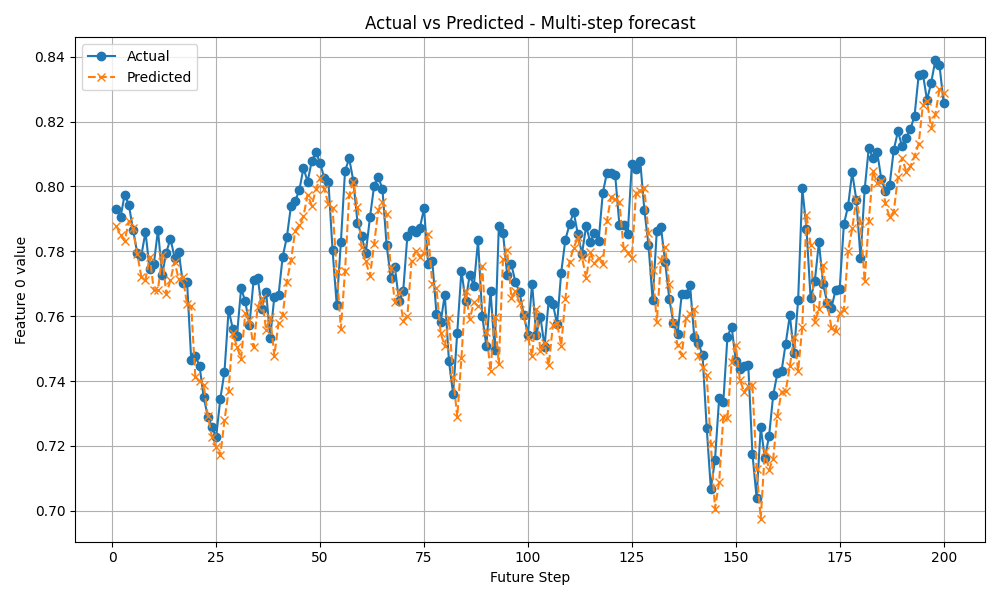
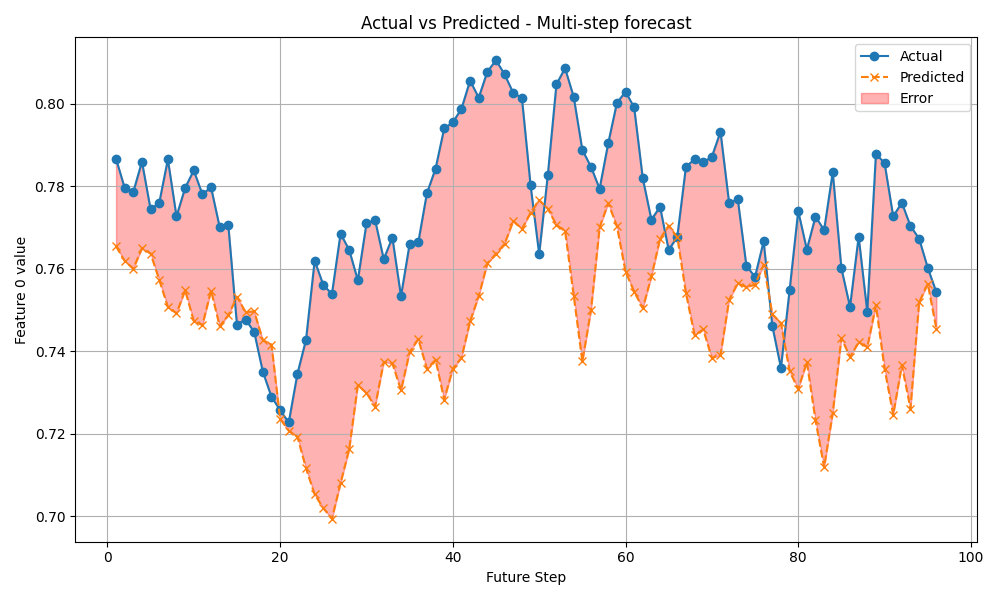
better plots & multi-step validation bug fixes

diff --git a/app/main.py b/app/main.py
@@ -145,6 +145,14 @@ def plot_predictions(model:(...), X_test:torch.Tensor, y_test:torch.Tensor, plot
     plt.figure(figsize=(10, 6))
     plt.plot(y_true, label='Actual', color='black', linewidth=2)
     plt.plot(y_pred, label='Predicted', color='red', linestyle='--')
+    steps = np.arange(0, len(y_true))
+    plt.fill_between(steps, y_true, y_pred,
+                     where=None,       # or a boolean array if you only want some segments
+                     interpolate=True, # helps when lines cross
+                     color='red',
+                     alpha=0.3,
+                     label="Error",
+                    )
     plt.title(title)
     plt.xlabel('Time Step')
     plt.ylabel('Value')
@@ -202,12 +210,14 @@ def multi_step_forecast(model:(...), init_seq:torch.Tensor, n_steps:int=1) -> to
 
 
 
-def multi_step_forecast_plot(model:(...),
-                             X:torch.Tensor,
-                             y:torch.Tensor,
-                             n_steps:int=5,
-                             img_path:str|None=None,
-                            ) -> None:
+def multi_step_forecast_validation(model:(...),
+                                   X:torch.Tensor,
+                                   y:torch.Tensor,
+                                   n_steps:int=5,
+                                   img_path:str|None=None,
+                                   verbose:bool=True,
+                                   color:str="blue",
+                                  ) -> float:
     '''
     Plots the multi-step forecast results
 
@@ -218,26 +228,43 @@ def multi_step_forecast_plot(model:(...),
     - `n_steps` : integer number of future steps to predict
     '''
     # pick batch instance and feature dimension
-    feat = 0
-    y_pred = multi_step_forecast(model, X, n_steps)
-    # convert tensors to numpy if needed
-    y_true_np = y[:,feat].cpu().detach().numpy()   # shape (n_steps,)
-    y_pred_np = y_pred[:,feat].cpu().detach().numpy()   # shape (n_steps,)
+    feat = 0 # TODO: this must be removed as there is only one feature
+    y_pred = multi_step_forecast(model, X, n_steps) # (n_seq, n_steps, out_dim)
 
+    # format data for plot
+    y_true_np = y[n_steps-1:,:].cpu().detach().numpy().reshape(-1) # take the actual value n_steps ahead (-1 because y is already 1 step ahead)
+    y_pred_np = y_pred[:len(y_true_np),-1,:].cpu().detach().numpy().reshape(-1) # (n_seq, out_dim) # NOTE: only take the n_step ahead prediction
+    
     # create x‐axis for steps: you can choose e.g. from 1→n_steps
     steps = np.arange(1, len(y_true_np)+1)
 
-    plt.figure(figsize=(10,6))
-    plt.plot(steps, y_true_np, label='Actual', marker='o')
-    plt.plot(steps, y_pred_np, label='Predicted', marker='x', linestyle='--')
-    plt.xlabel('Future Step')
-    plt.ylabel(f'Feature {feat} value')
-    plt.title('Actual vs Predicted - Multi-step forecast')
-    plt.legend()
-    plt.grid()
-    plt.tight_layout()
     if img_path is not None:
+        plt.figure(figsize=(10,6))
+        plt.plot(steps, y_true_np, label='Actual', marker='o')
+        plt.plot(steps, y_pred_np, label='Predicted', marker='x', linestyle='--')
+        plt.fill_between(steps, y_true_np, y_pred_np,
+                        where=None,       # or a boolean array if you only want some segments
+                        interpolate=True, # helps when lines cross
+                        color='red',
+                        alpha=0.3,
+                        label="Error",
+                        )
+        plt.xlabel('Future Step')
+        plt.ylabel(f'Feature {feat} value')
+        plt.title('Actual vs Predicted - Multi-step forecast')
+        plt.legend()
+        plt.grid()
+        plt.tight_layout()
         plt.savefig(img_path)
+
+    # COMPUTE ERROR
+    error = float(nn.L1Loss()(torch.from_numpy(y_pred_np), torch.from_numpy(y_true_np)))
+    if verbose:
+        print("Forecasting", end=" ")
+        utils.print_colored(n_steps, color=color, end=" ")
+        print("steps ahead gave an error of", end=" ")
+        utils.print_colored(error, color=color)
+    return error
 
 
 
@@ -248,7 +275,7 @@ if __name__ == '__main__':
     
     # PARAMETERS
     color:str = "magenta"
-    plot_limit:int = 200
+    plot_limit:int = 100
     look_ahead:int = 10
 
     params:dict = utils.load_json("/data/params.json")
@@ -315,9 +342,10 @@ if __name__ == '__main__':
                      plot_img=f"{result_folder}/{case_study}-prediction.png",
                     )
     
-    multi_step_forecast_plot(model=model,
-                             X=X_test[:plot_limit],
-                             y=y_test[:plot_limit],
-                             n_steps=look_ahead,
-                             img_path=f"{result_folder}/{case_study}-look_ahead.png",
-                            )
+    multi_step_error = multi_step_forecast_validation(model=model,
+                                                      X=X_test[:plot_limit],
+                                                      y=y_test[:plot_limit],
+                                                      n_steps=look_ahead,
+                                                      img_path=f"{result_folder}/{case_study}-look_ahead.png",
+                                                      color=color,
+                                                     )

diff --git a/app/utils/nn_utils.py b/app/utils/nn_utils.py
@@ -517,10 +517,14 @@ def train_model(model,
         loss_history = []
     if verbose:
         print("Training started.")
-        print("\tTest set shape: ", end="")
-        utils.print_colored(tuple(X_train.size()), color=color)
-        print("\tValidation set shape: ", end="")
-        utils.print_colored(tuple(X_val.size()), color=color)
+        print("\tTest set shape: in=", end="")
+        utils.print_colored(tuple(X_train.size()), color=color, end=" ")
+        print("out=", end="")
+        utils.print_colored(tuple(y_train.size()), color=color)
+        print("\tValidation set shape: in=", end="")
+        utils.print_colored(tuple(X_val.size()), color=color, end=" ")
+        print("out=", end="")
+        utils.print_colored(tuple(y_val.size()), color=color)
     if verbose:
         timer = utils.TimeExecution()
         timer.start()
